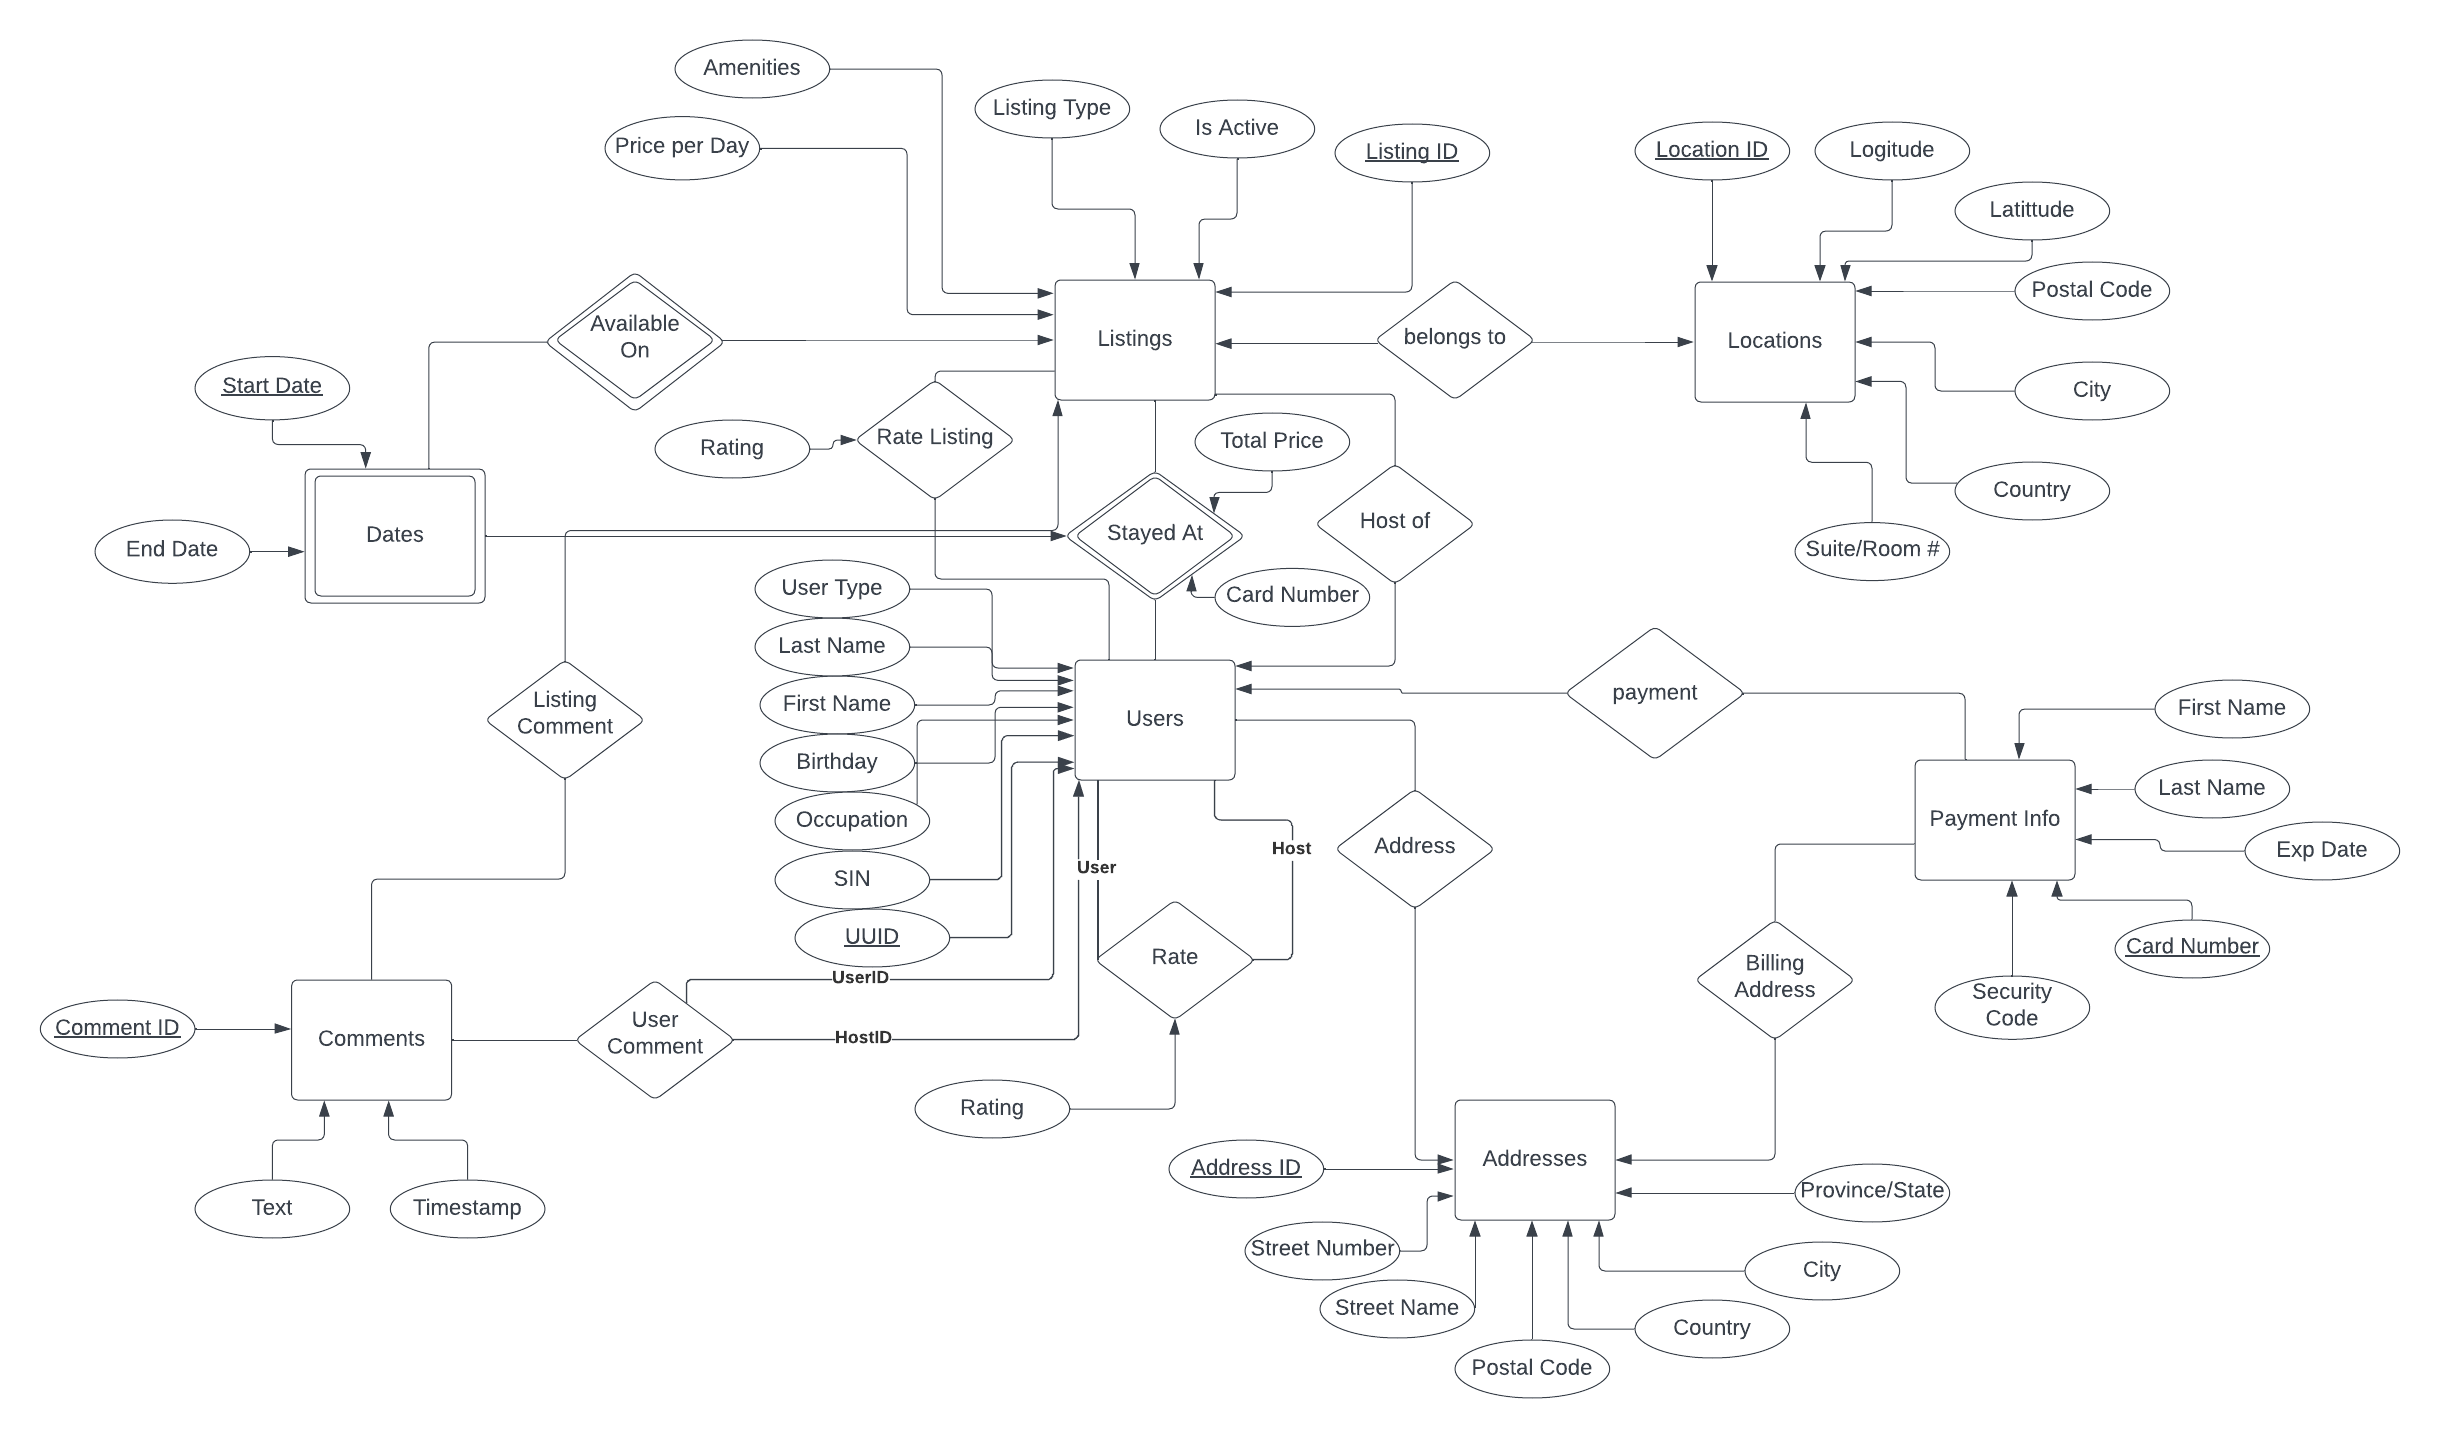
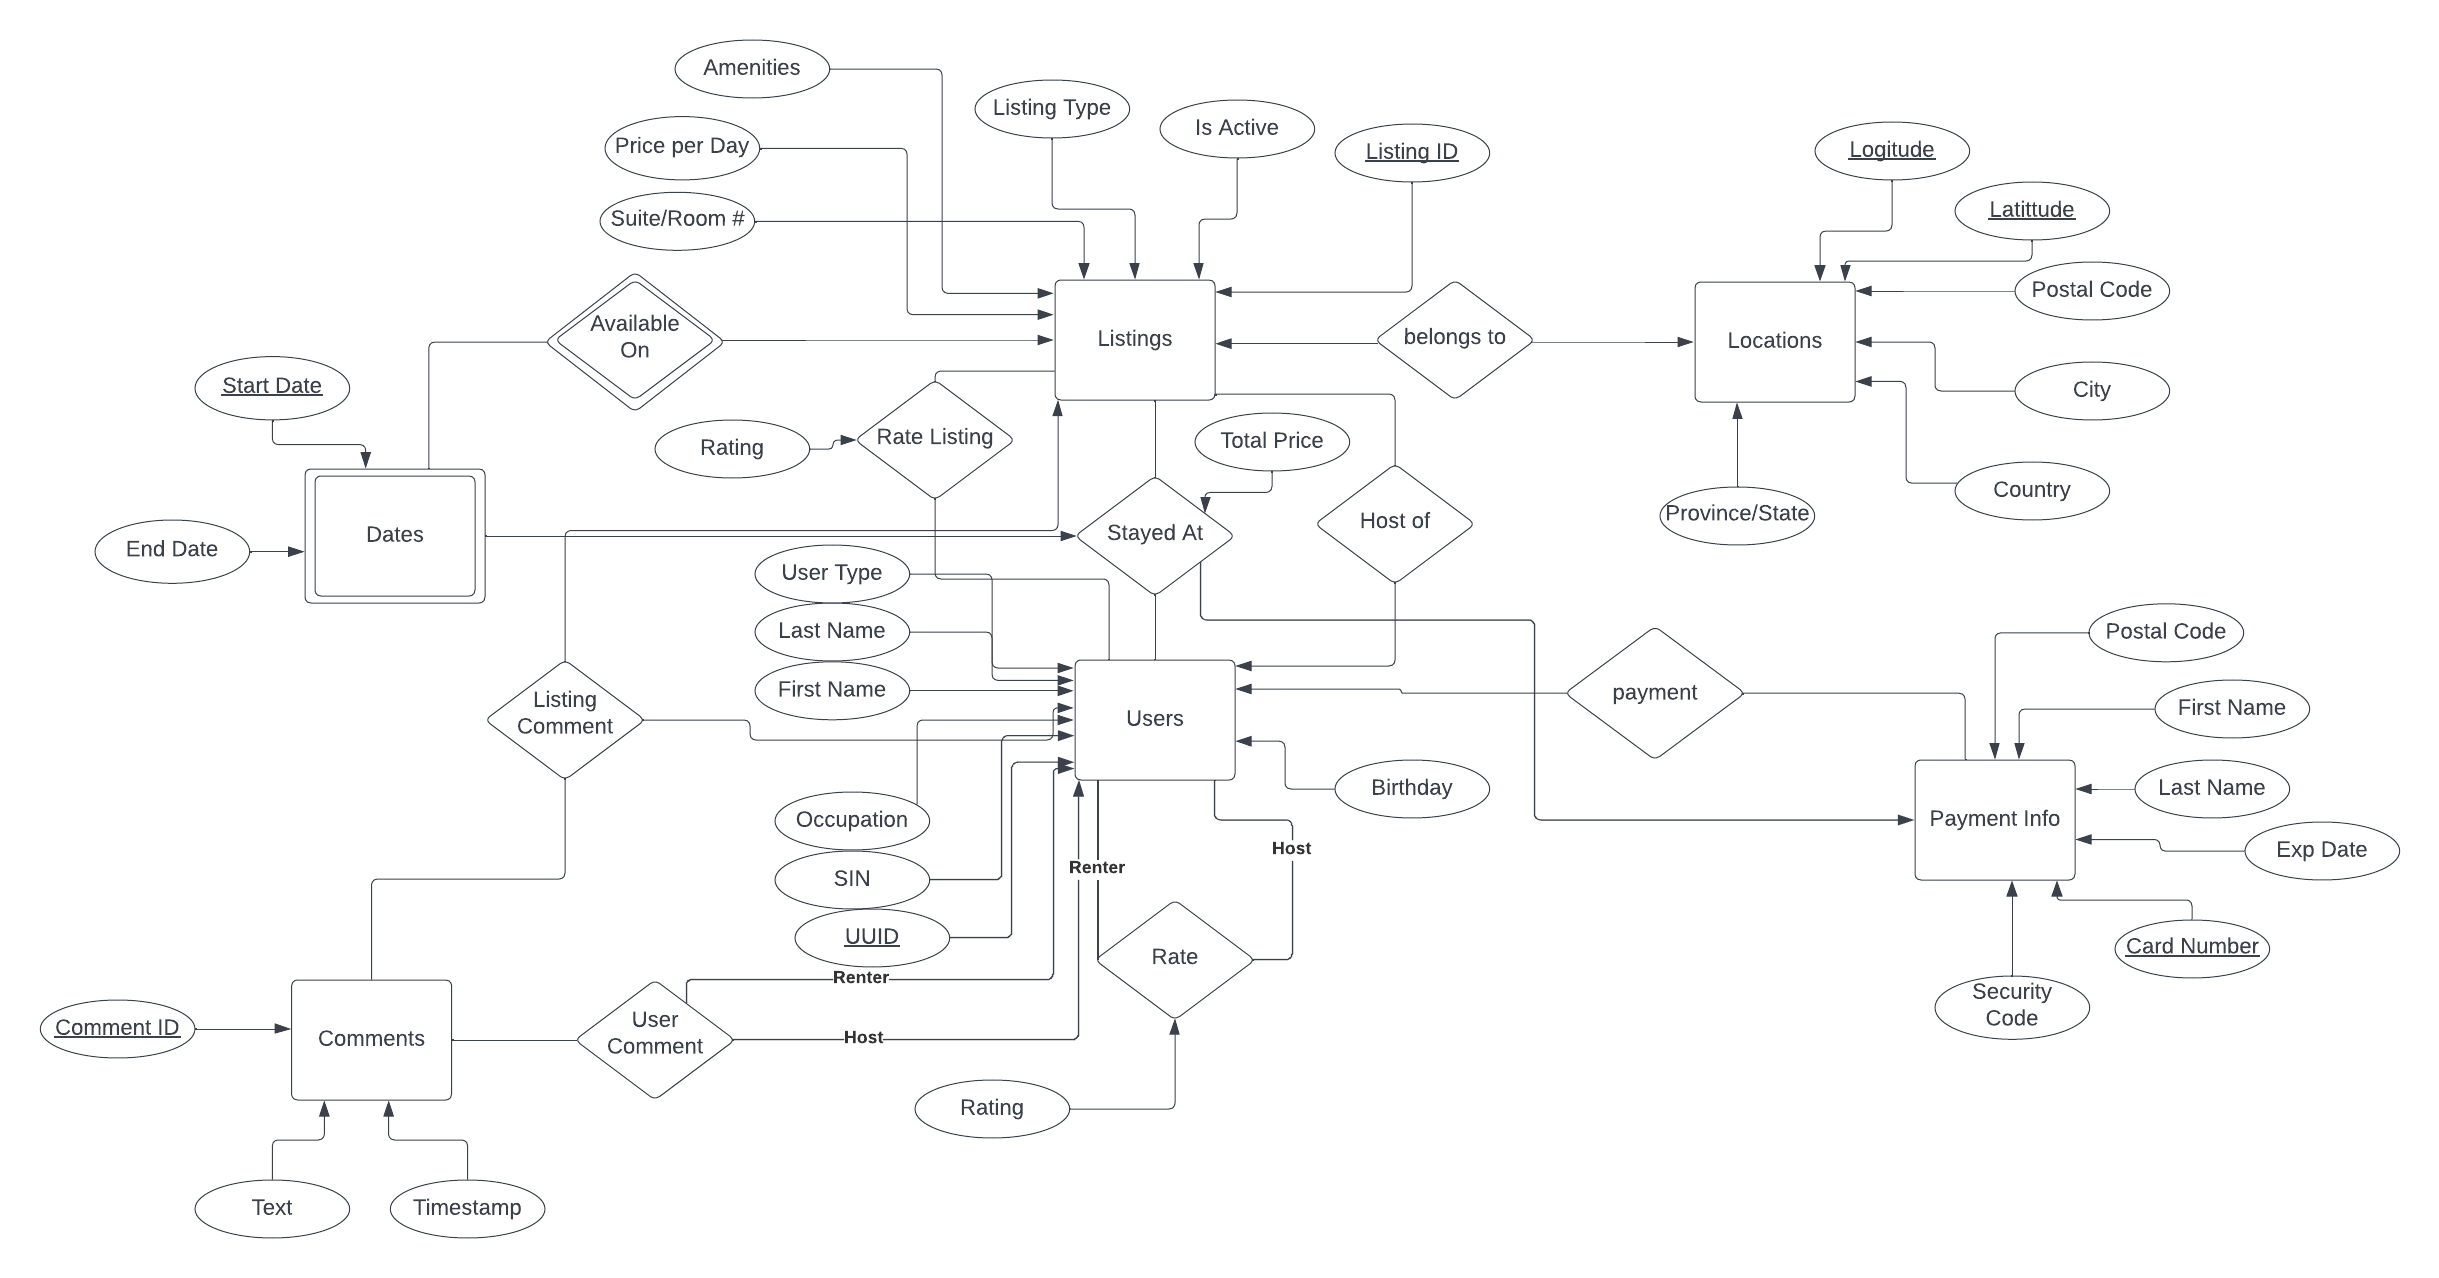
updated ER, created DB connection service

diff --git a/backend/src/main/java/com/c43backend/dbconnectionservice/DBConnectionService.java b/backend/src/main/java/com/c43backend/dbconnectionservice/DBConnectionService.java
@@ -1,0 +1,83 @@
+package com.c43backend.dbconnectionservice;
+
+import java.io.BufferedReader;
+import java.io.FileReader;
+import java.io.Reader;
+import java.sql.*;
+import io.github.cdimascio.dotenv.Dotenv;
+import com.ibatis.common.jdbc.ScriptRunner;
+
+public final class DBConnectionService
+{
+    private static DBConnectionService _instance = null;
+    private static final String _dbClassName = "com.mysql.cj.jdbc.Driver";
+    private static String _connectionString;
+    private static Connection _conn;
+    private PreparedStatement _pStmt;
+
+    private DBConnectionService() throws ClassNotFoundException, SQLException
+    {
+        Dotenv dotenv = Dotenv.load();
+        _connectionString = String.format("jdbc:mysql://%s:%s/%s",
+                                          dotenv.get("DB_ADDRESS"),
+                                          dotenv.get("DB_PORT"),
+                                          dotenv.get("DB_NAME"));
+
+        // Register JDBC driver
+        Class.forName(_dbClassName);
+
+        System.out.println("Connecting to database...");
+        _conn = DriverManager.getConnection(_connectionString,
+                                            dotenv.get("DB_USER"),
+                                            dotenv.get("DB_PASSWORD"));
+    }
+
+    public DBConnectionService getInstance() throws ClassNotFoundException, SQLException
+    {
+        return _instance == null ? new DBConnectionService() : _instance;
+    }
+
+    public Boolean createTables(String scriptPath)
+    {
+        ScriptRunner sr = new ScriptRunner(_conn, false, true);
+        Reader r;
+
+        try
+        {
+            r = new BufferedReader(new FileReader(scriptPath));
+            sr.runScript(r);
+            r.close();
+            return true;
+        }
+        catch (Exception e)
+        {
+            return false;
+        }
+    }
+
+    public Boolean setPStatement(String pQuery)
+    {
+        try
+        {
+            _pStmt = _conn.prepareStatement(pQuery);
+        }
+        catch (SQLException e)
+        {
+            return false;
+        }
+
+        return true;
+    }
+
+    public ResultSet executeSetQuery() throws SQLException
+    {
+        return _pStmt.executeQuery();
+    }
+
+    public ResultSet executeQuery(String query) throws SQLException
+    {
+        PreparedStatement pStmt = _conn.prepareStatement(query);
+
+        return pStmt.executeQuery();
+    }
+}
